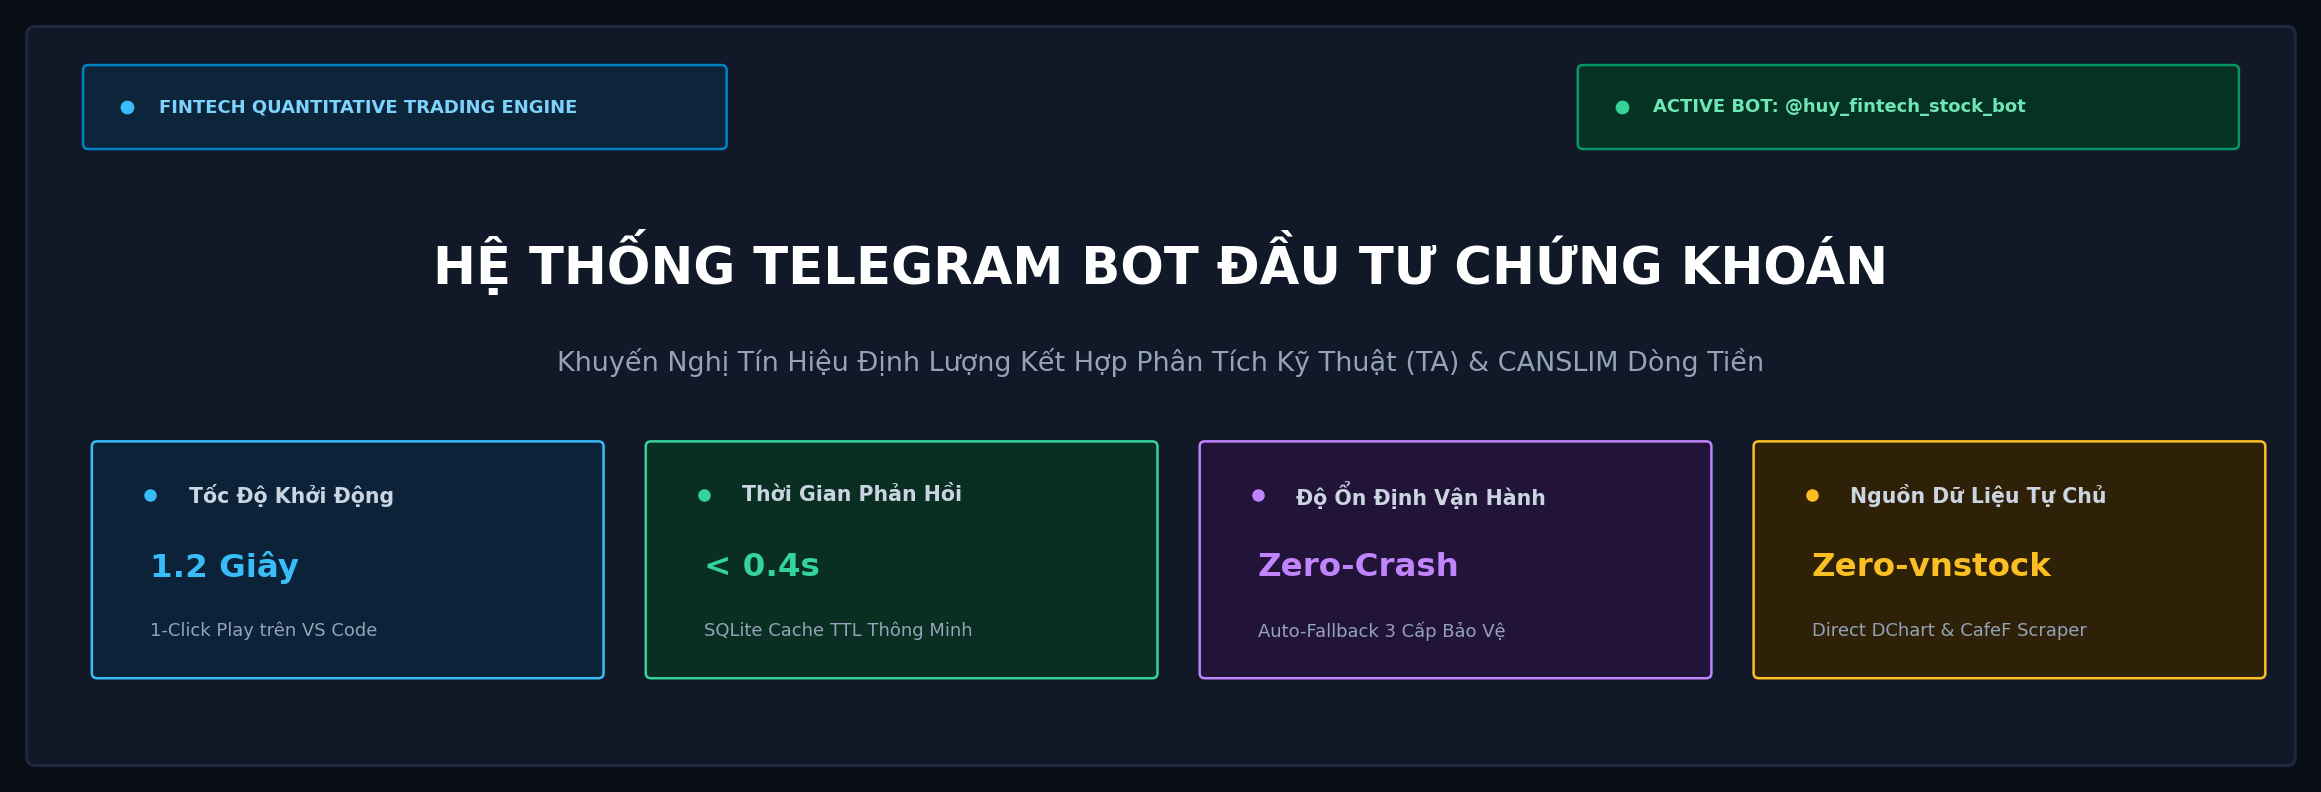
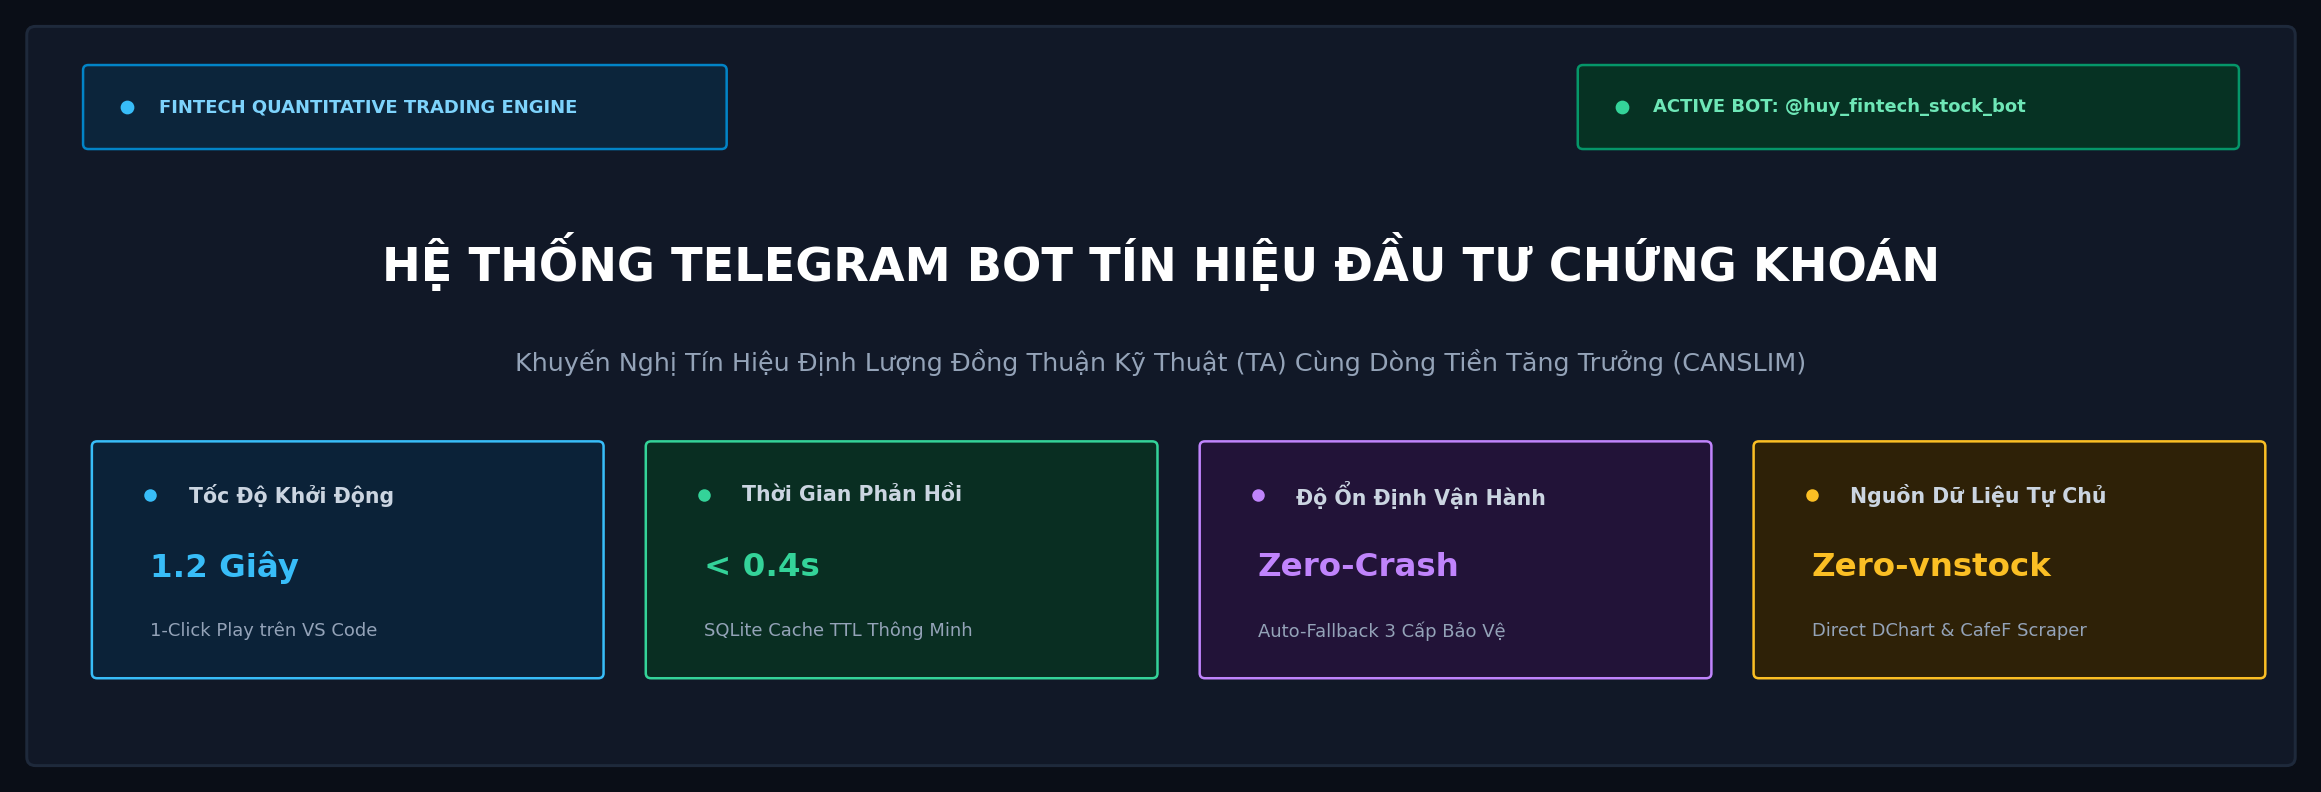
docs: synchronize project title with 'Tín Hiệu', refine phrasing redundancy, and update showcase header

Changed region(s): [[0.1551, 0.303, 0.8376, 0.3636], [0.2171, 0.4242, 0.7755, 0.4848]]

diff --git a/index.html b/index.html
@@ -3,7 +3,7 @@
 <head>
   <meta charset="UTF-8">
   <meta name="viewport" content="width=device-width, initial-scale=1.0">
-  <title>Báo Cáo Trình Diễn: Hệ Thống Telegram Bot Đầu Tư Chứng Khoán</title>
+  <title>Telegram Stock Bot - Hệ Thống Tín Hiệu Đầu Tư Chứng Khoán</title>
   <script src="https://www.gstatic.com/antigravity/web/dev/tailwindcss.min.js"></script>
   <style>
     :root {
@@ -100,7 +100,7 @@
         <span class="relative inline-flex rounded-full h-3 w-3 bg-emerald-500"></span>
       </span>
       <span class="font-bold tracking-wider text-sm text-gray-200">
-        FINTECH BOT • <span class="text-sky-400 font-semibold">BÁO CÁO THUYẾT TRÌNH DỰ ÁN</span>
+        TELEGRAM STOCK BOT • <span class="text-sky-400 font-semibold">HỆ THỐNG TÍN HIỆU ĐẦU TƯ CHỨNG KHOÁN</span>
       </span>
     </div>
 
@@ -137,8 +137,8 @@
           HỆ THỐNG TELEGRAM BOT TÍN HIỆU ĐẦU TƯ CHỨNG KHOÁN
         </h1>
         <p class="text-lg md:text-xl text-gray-300 max-w-3xl mx-auto font-normal">
-          Giải pháp khuyến nghị đầu tư tự động hóa định lượng, kết hợp hài hòa giữa <br>
-          <span class="text-sky-400 font-semibold">Phân tích Kỹ thuật (TA)</span> và <span class="text-emerald-400 font-semibold">Cơ bản & Dòng tiền bùng nổ (CANSLIM FA)</span>
+          Giải pháp khuyến nghị đầu tư tự động hóa định lượng, kết hợp đồng thuận giữa <br>
+          <span class="text-sky-400 font-semibold">Phân tích Kỹ thuật (TA)</span> cùng <span class="text-emerald-400 font-semibold">Mô hình Cơ bản - Dòng tiền Bùng nổ (CANSLIM FA)</span>
         </p>
       </div>
 

diff --git a/main.py b/main.py
@@ -205,7 +205,7 @@ def main():
     bot_link = f"https://t.me/{bot_username}" if bot_username else "Ứng dụng Telegram"
 
     print("\n" + "=" * 80)
-    print("🚀 HỆ THỐNG TELEGRAM BOT ĐẦU TƯ CHỨNG KHOÁN (FINTECH BOT) - ĐANG CHẠY TRỰC TUYẾN")
+    print("🚀 HỆ THỐNG TELEGRAM BOT TÍN HIỆU ĐẦU TƯ CHỨNG KHOÁN (FINTECH BOT) - ĐANG CHẠY TRỰC TUYẾN")
     print("=" * 80)
     print(f"🤖 Tên Bot: {bot_name} (@{bot_username})")
     print(f"🔗 Link mở trực tiếp: {bot_link}")

diff --git a/config.py b/config.py
@@ -1,5 +1,5 @@
 """
-Module cấu hình tập trung cho toàn bộ hệ thống Telegram Bot Đầu Tư Chứng Khoán.
+Module cấu hình tập trung cho toàn bộ hệ thống Telegram Bot Tín Hiệu Đầu Tư Chứng Khoán.
 Bao gồm: API Token, danh sách mã cổ phiếu theo dõi, các tham số chỉ báo kỹ thuật,
 tiêu chí lọc báo cáo tài chính và ngưỡng quản trị rủi ro.
 """

diff --git a/README.md b/README.md
@@ -3,7 +3,7 @@
 [![Python](https://img.shields.io/badge/Python-3.10%2B-3776AB?style=flat-square&logo=python&logoColor=white)](https://www.python.org/)
 [![Telegram](https://img.shields.io/badge/Telegram_Bot_API-v20%2B-24A1DE?style=flat-square&logo=telegram&logoColor=white)](https://core.telegram.org/bots/api)
 [![Architecture](https://img.shields.io/badge/Architecture-Clean_4--Layer-555555?style=flat-square)]()
-[![Presentation](https://img.shields.io/badge/Live_Presentation-GitHub_Pages-22c55e?style=flat-square&logo=githubpages&logoColor=white)](https://huy01197.github.io/telegram-stock-bot/)
+[![System Showcase](https://img.shields.io/badge/System_Showcase-GitHub_Pages-22c55e?style=flat-square&logo=githubpages&logoColor=white)](https://huy01197.github.io/telegram-stock-bot/)
 [![License](https://img.shields.io/badge/License-MIT-green?style=flat-square)]()
 [![Status](https://img.shields.io/badge/Build-Passing-brightgreen?style=flat-square)]()
 
@@ -11,10 +11,10 @@
   <img src="assets/banner.png" alt="Telegram Stock Bot Banner" width="100%">
 </p>
 
-Hệ thống Telegram Bot tự động hóa phân tích thị trường chứng khoán Việt Nam, tạo và phát tín hiệu Mua/Bán (Buy/Sell) theo thời gian thực dựa trên sự kết hợp giữa **Phân tích Kỹ thuật (Technical Analysis)** và **Cơ bản kết hợp Dòng tiền (CANSLIM / SEPA)**.
+Hệ thống Telegram Bot tự động hóa phân tích thị trường chứng khoán Việt Nam, tạo và phát tín hiệu Mua/Bán (Buy/Sell) thời gian thực theo mô hình đồng thuận giữa **Phân tích Kỹ thuật (Technical Analysis)** cùng **Mô hình Cơ bản - Dòng tiền Tăng trưởng (CANSLIM / SEPA)**.
 
 * **Repository**: [github.com/huy01197/telegram-stock-bot](https://github.com/huy01197/telegram-stock-bot)
-* **Live Presentation**: [huy01197.github.io/telegram-stock-bot](https://huy01197.github.io/telegram-stock-bot/)
+* **System Showcase (Trực tuyến)**: [huy01197.github.io/telegram-stock-bot](https://huy01197.github.io/telegram-stock-bot/)
 * **Bot Username**: `@huy_fintech_stock_bot`
 * **Thời gian khởi chạy**: 1.2 giây (1-Click Play trên VS Code)
 * **Độ trễ phản hồi**: Dưới 0.4 giây qua SQLite Cache TTL
@@ -91,7 +91,7 @@ telegram-stock-bot/
 ├── .env.example                # File mẫu cấu hình biến môi trường an toàn
 ├── .gitignore                  # Cấu hình loại trừ file nhạy cảm và cache
 ├── assets/                     # Tài nguyên hình ảnh, banner và sơ đồ kiến trúc
-├── index.html                  # Ứng dụng slide báo cáo trực quan phát hành qua GitHub Pages
+├── index.html                  # Bản trình diễn tương tác hệ thống (System Showcase) trên GitHub Pages
 ├── .vscode/                    # Cấu hình nút Run / Play / Debug trên VS Code
 ├── README.md                   # Tài liệu hướng dẫn sử dụng và vận hành
 │
@@ -198,8 +198,8 @@ python main.py --test
 python backtest_runner.py --symbols FPT,SSI,HPG,VNM,MWG --days 180 --strategy TA
 ```
 
-#### Cách 6: Trình Chiếu Slide Báo Cáo Trực Tiếp Trên Web (Interactive Presentation)
-Báo cáo thuyết trình dự án 7 trang chuẩn giao diện Dark Mode được phát hành trực tiếp qua GitHub Pages:
+#### Cách 6: Trải Nghiệm Bản Trình Diễn Hệ Thống Trực Tuyến (Interactive System Showcase)
+Bản trình diễn tương tác 7 phần chuẩn giao diện Dark Mode được phát hành trực tiếp qua GitHub Pages:
 * **Xem trực tiếp trên Web**: [https://huy01197.github.io/telegram-stock-bot/](https://huy01197.github.io/telegram-stock-bot/)
 * **Khởi chạy cục bộ**: Mở file [`index.html`](./index.html) trên trình duyệt hoặc chạy lệnh:
   ```bash
